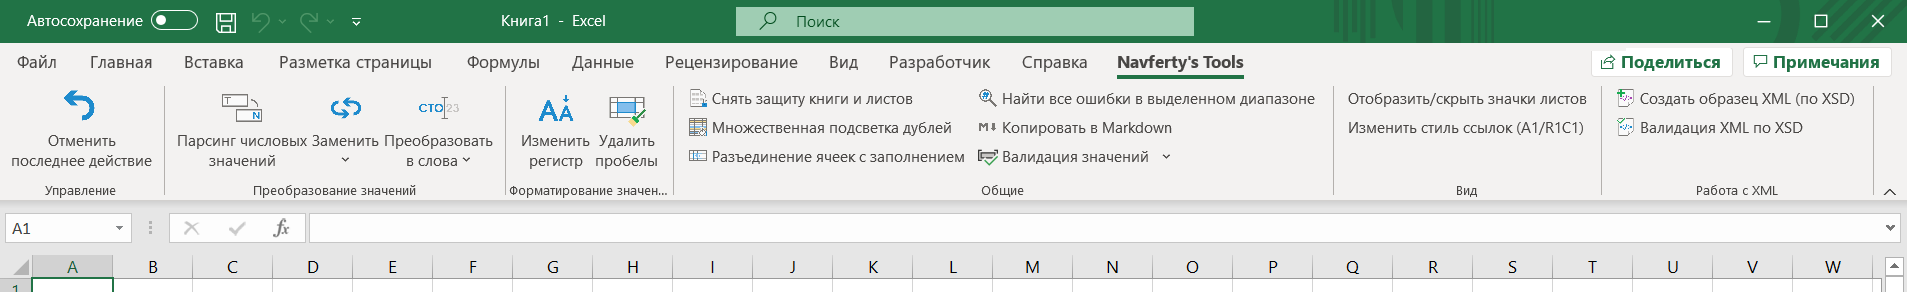
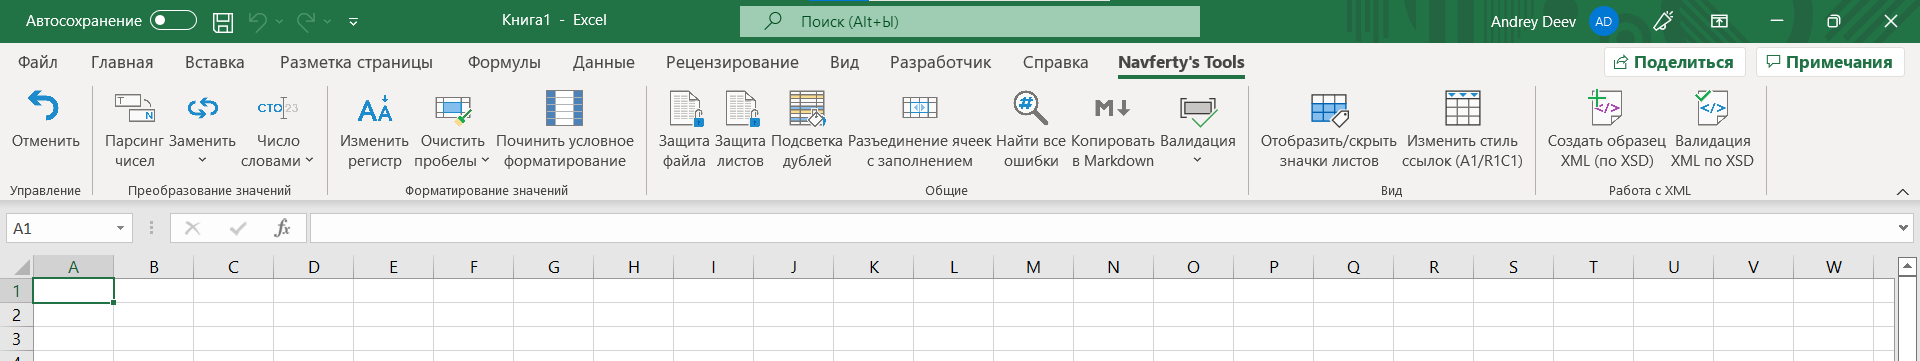
update readme with new function (Worksheets Protection)

Changed region(s): [[0.0, 0.0, 1.0, 0.6781], [0.0, 0.7089, 1.0, 1.0], [0.0619, 0.4315, 0.0928, 0.4623]]

diff --git a/README_RU.md b/README_RU.md
@@ -5,12 +5,13 @@
 ![Navferty's Tools Ribbon Tab in MS Excel](images/NavfertyToolsRibbonRu.png)
 
 ## Реализованные функции
- - [Парсинг числовых значений](#парсинг-числовых-значений)
+ - [Парсинг чисел](#парсинг-чисел)
  - [Заменить (Транслитерацией или на аналоги)](#заменить)
  - [Преобразовать числа в слова](#преобразовать-числа-в-слова)
  - [Изменить регистр](#изменить-регистр)
  - [Удалить пробелы](#удалить-пробелы)
  - [Снять защиту с книги и листов](#снять-защиту-с-книги-и-листов)
+ - [Защита листов](#защита-листов)
  - [Множественная подсветка дублей](#множественная-подсветка-дублей)
  - [Разъединение ячеек с заполнением](#разъединение-ячеек-с-заполнением)
  - [Найти все ошибки в выделенном диапазоне](#найти-все-ошибки-в-выделенном-диапазоне)
@@ -24,7 +25,7 @@
 
 ---
 
-## Парсинг числовых значений
+## Парсинг чисел
 
 |||
 |:-:|---|
@@ -123,6 +124,12 @@
 |||
 |:-:|---|
 |![](images/icons/unprotectWorkbook.png)|Позволяет снять защиту со всех листов открытой книги, как и защиту всей книги, в отсутствие пароля, а также разблокировать VBA проект (при его наличии), на который установлен пароль. Функция не распространяется на зашифрованные книги.|
+
+## Защита листов
+
+|||
+|:-:|---|
+|![](images/icons/unprotectWorkbook.png)|Позволяет установить или снять защиту со множества листов книги одной командой.|
 
 ## Множественная подсветка дублей
 

diff --git a/README.md b/README.md
@@ -11,7 +11,8 @@
  - [Stringify Numerics to Words](#stringify-numerics-into-words)
  - [Toggle Case](#toggle-case)
  - [Trim Spaces](#trim-spaces)
- - [Unprotect Workbook](#unprotect-workbook)
+ - [Remove File Protection](#remove-file-protection)
+ - [Worksheets Protection](#worksheets-protection)
  - [Highlight Duplicates](#highlight-duplications)
  - [Unmerge Cells](#unmerge-cells)
  - [Find Formula Errors in the selected range](#find-all-cells-containing-errors)
@@ -128,11 +129,17 @@
 
 ---
 
-## Unprotect Workbook
+## Remove File Protection
 
 |||
 |:-:|---|
 |![](images/icons/unprotectWorkbook.png)|Allows you to unprotect all the pages of an open book as the entire book, no password, and also unlock VBA project (if any) to which the password is set. This feature does not apply to encrypted books.|
+
+## Worksheets Protection
+
+|||
+|:-:|---|
+|![](images/icons/unprotectWorkbook.png)|Allows you to set protection on multiple worksheets at once.|
 
 ## Highlight duplications
 
